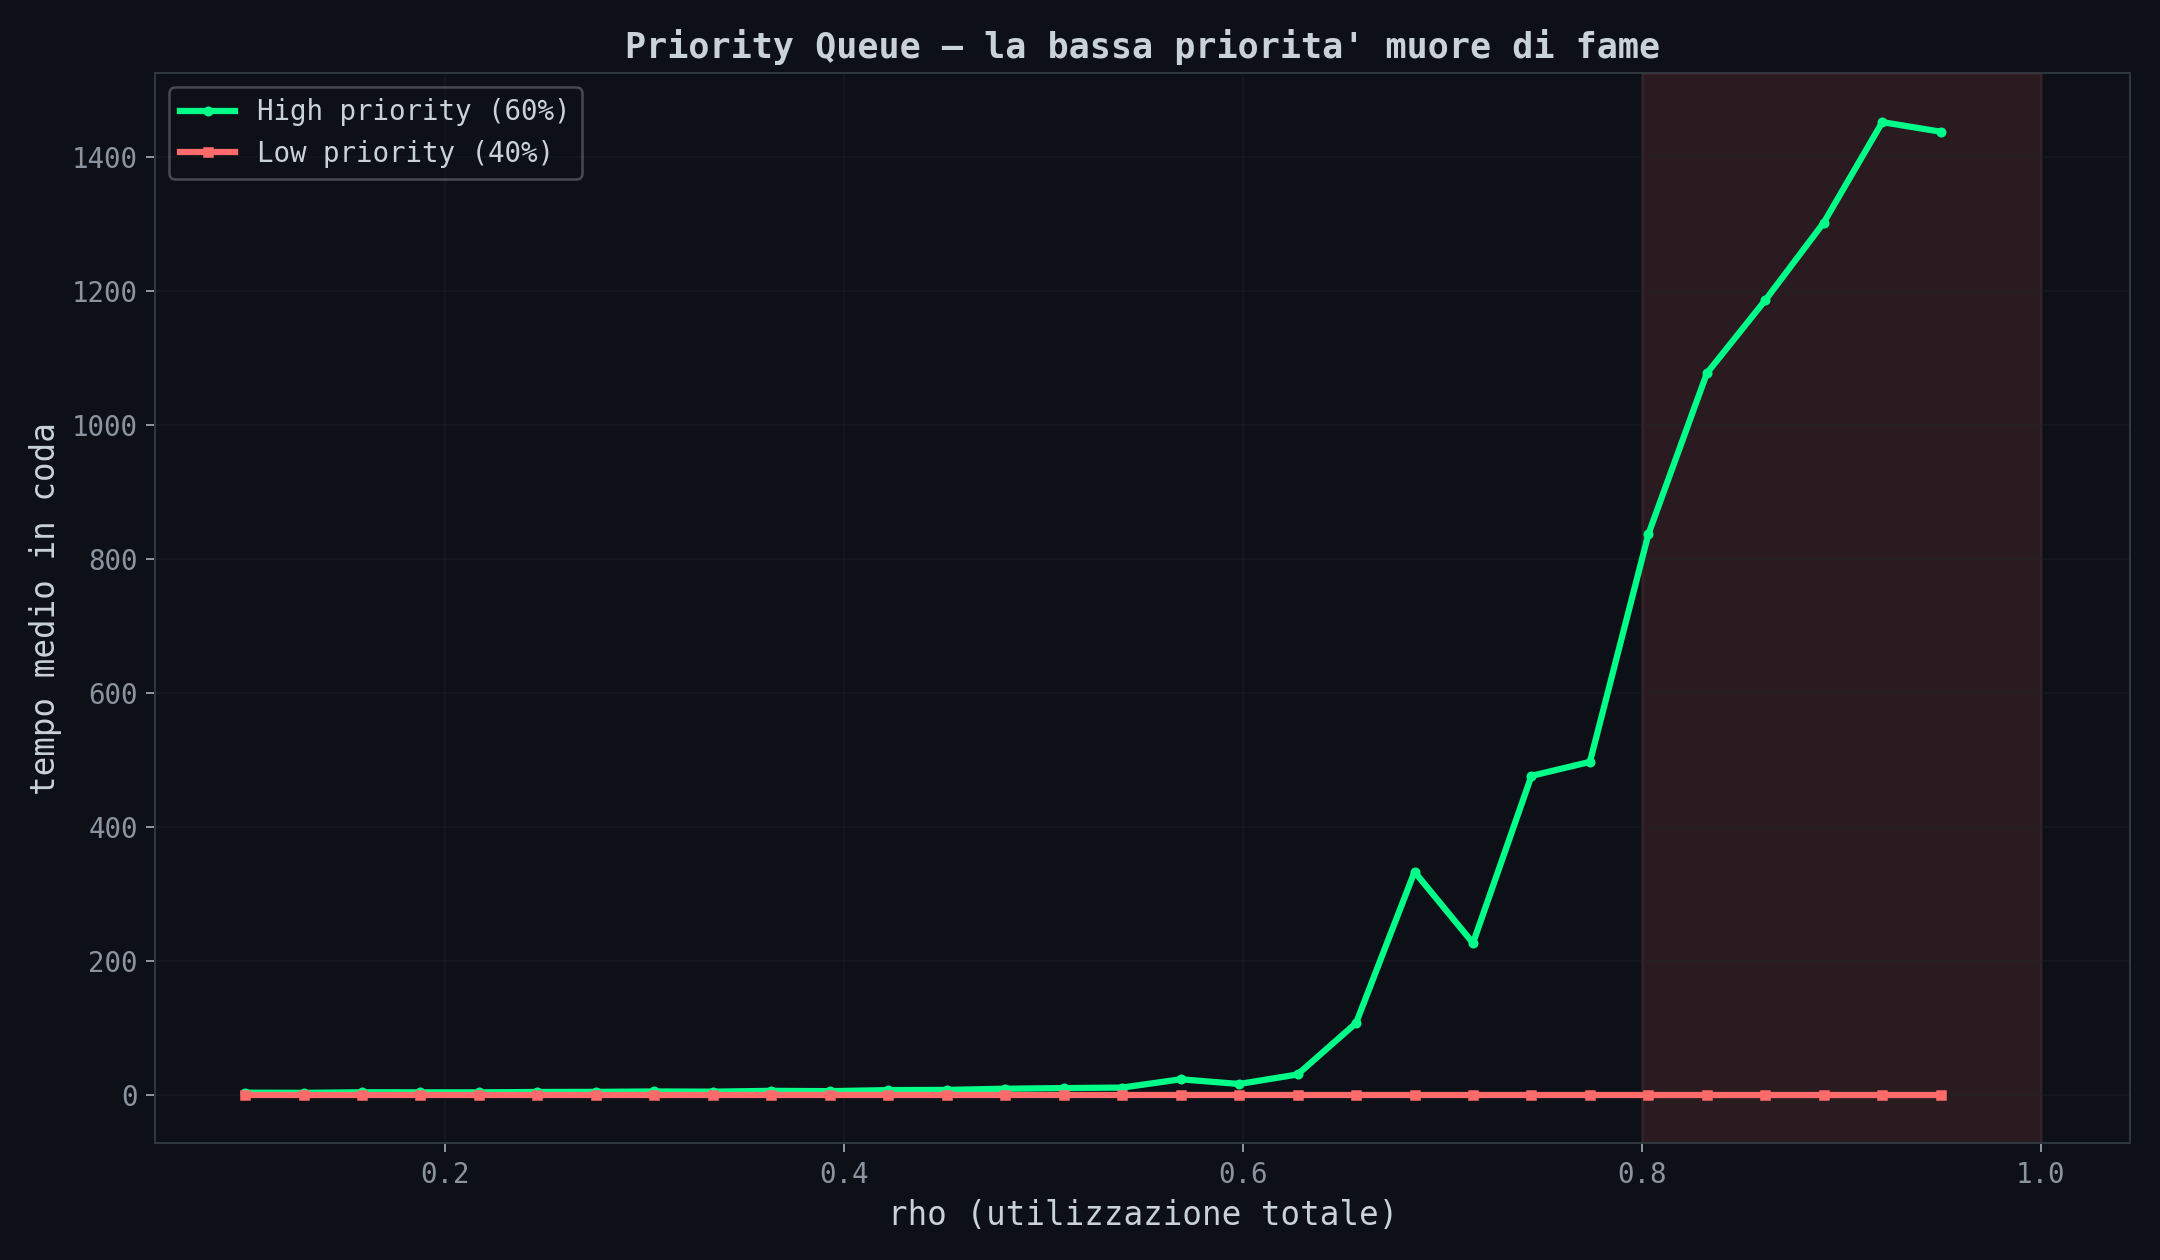
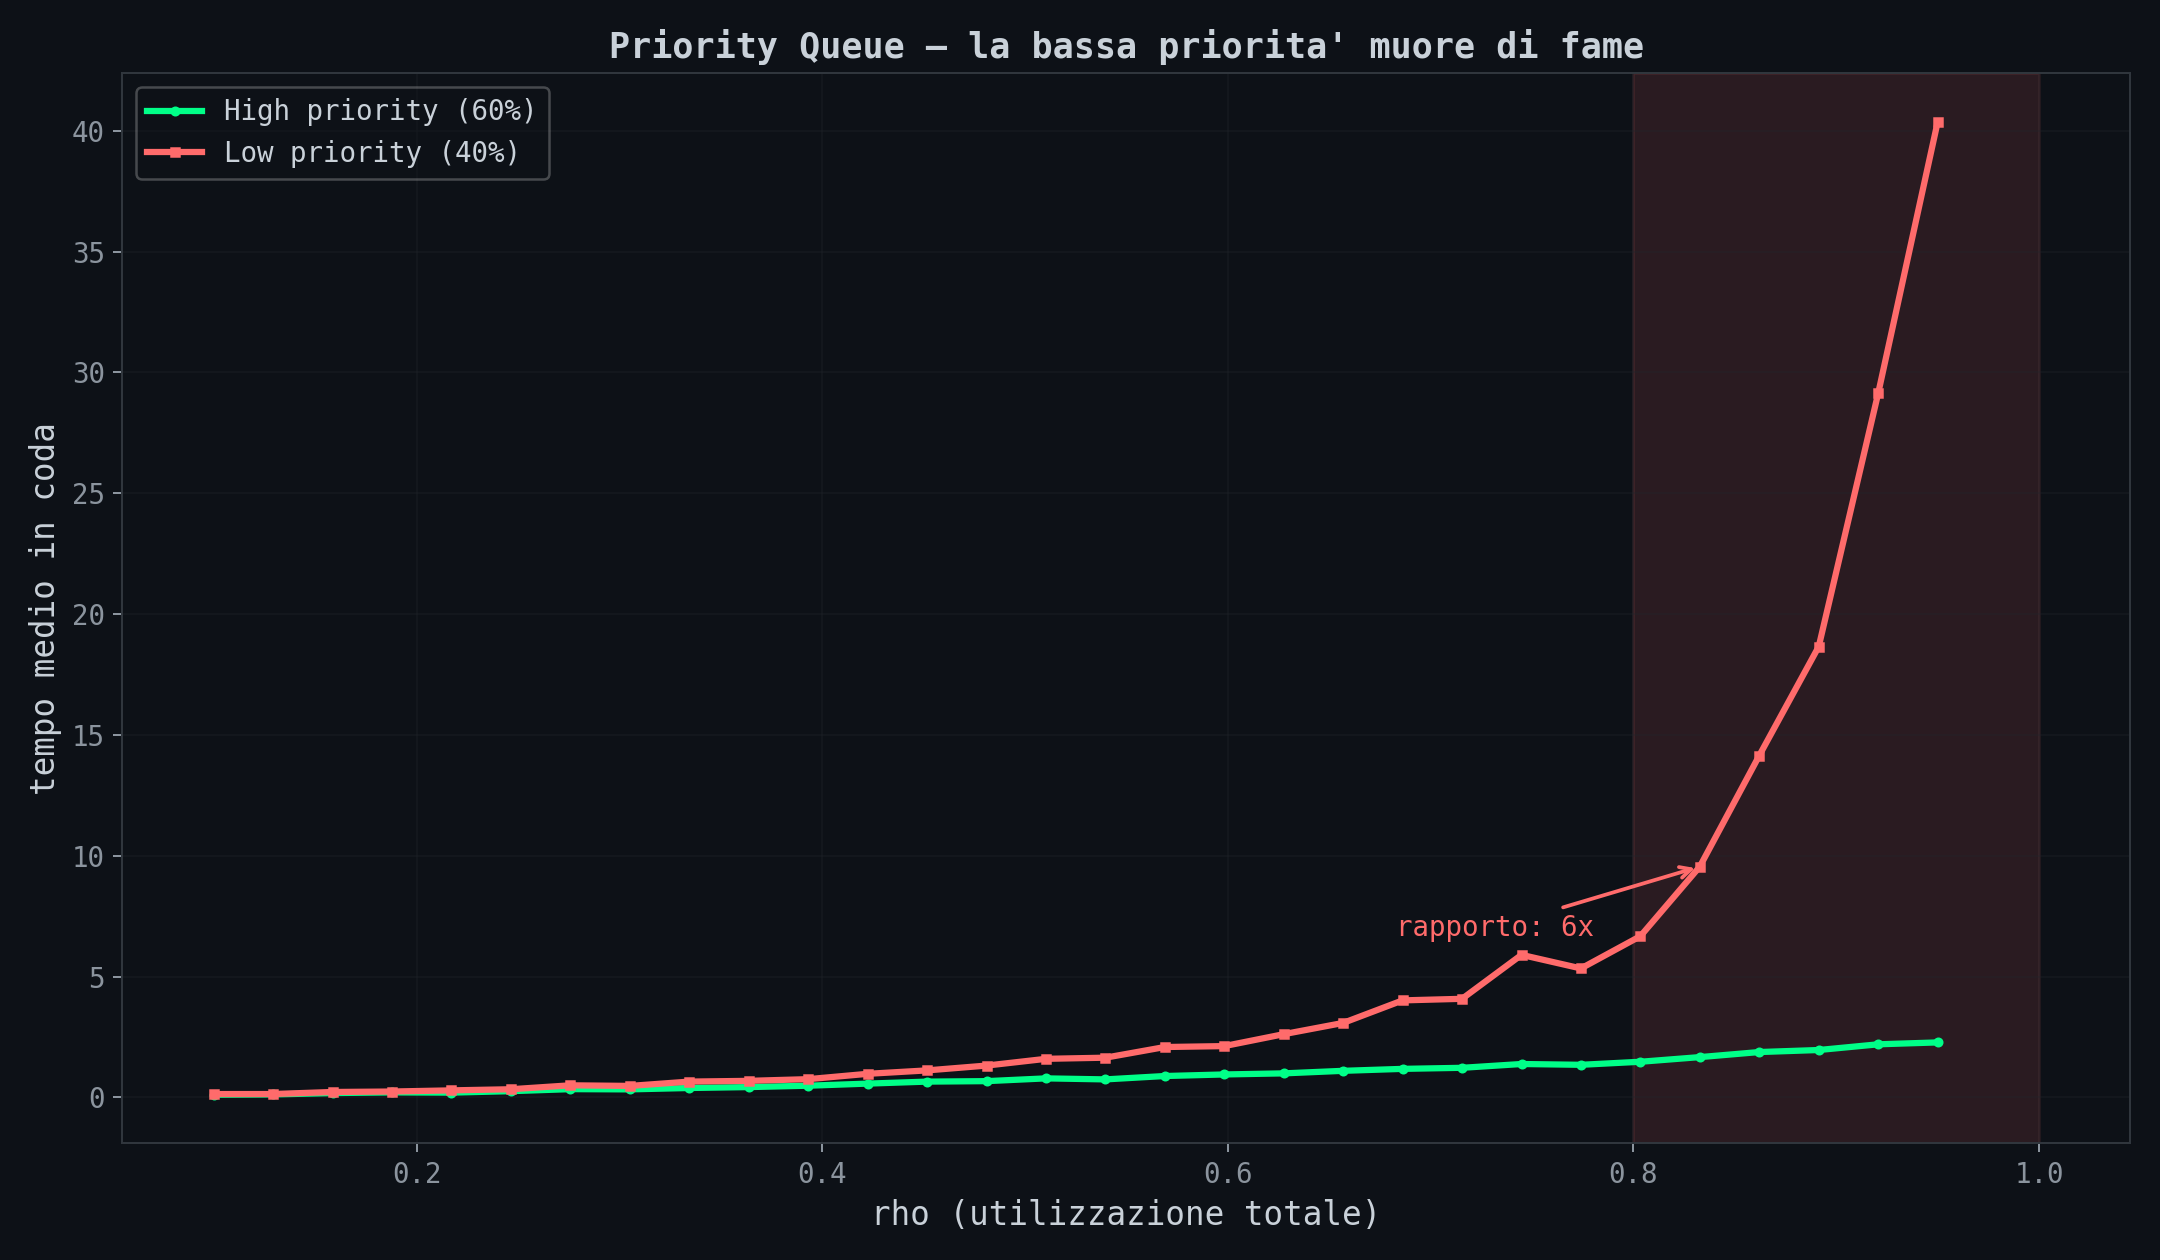
Correggi simulazione priority starvation: drain loop e orizzonte temporale
Bug nel grafico 08: la linea verde (high priority) esplodeva invece
della rossa (low priority). Due cause: il drain loop non svuotava le
code prima di servire nuovi arrivi, e N fisso per classe generava
orizzonti temporali diversi diluendo la media low priority.
Ora usa T_MAX fisso e drain corretto. Grafico rigenerato.

diff --git a/scripts/il-treno-arriva-con-la-matematica/05_simulation.py b/scripts/il-treno-arriva-con-la-matematica/05_simulation.py
@@ -143,7 +143,7 @@ def simulate_priority_starvation():
     """
     rho_values = np.linspace(0.1, 0.95, 30)
     HIGH_FRACTION = 0.6  # 60% del traffico e' high priority
-    N_CUSTOMERS = 10_000
+    T_MAX = 20_000  # orizzonte temporale fisso per entrambe le classi
     SERVICE_RATE = 1.0
 
     high_waits = []
@@ -154,9 +154,11 @@ def simulate_priority_starvation():
         high_rate = arrival_rate * HIGH_FRACTION
         low_rate = arrival_rate * (1 - HIGH_FRACTION)
 
-        # Genera arrivi
-        high_arrivals = np.cumsum(np.random.exponential(1 / high_rate, N_CUSTOMERS))
-        low_arrivals = np.cumsum(np.random.exponential(1 / low_rate, N_CUSTOMERS))
+        # Genera arrivi sullo stesso orizzonte temporale
+        high_arrivals = np.cumsum(np.random.exponential(1 / high_rate, int(T_MAX * high_rate * 1.5)))
+        high_arrivals = high_arrivals[high_arrivals < T_MAX]
+        low_arrivals = np.cumsum(np.random.exponential(1 / low_rate, int(T_MAX * low_rate * 1.5)))
+        low_arrivals = low_arrivals[low_arrivals < T_MAX]
 
         # Merge e simula
         events = (
@@ -173,24 +175,26 @@ def simulate_priority_starvation():
         l_waits = []
 
         for arrival_time, priority, service_time in events:
-            if arrival_time >= server_free_at:
-                # Server libero
-                if priority == 'H':
-                    # Serve subito
-                    wait = 0
-                    server_free_at = arrival_time + service_time
-                    h_waits.append(wait)
+            # Drena code in ordine di priorita' finche' il server e' libero
+            while server_free_at <= arrival_time:
+                if high_queue:
+                    at, st = high_queue.pop(0)
+                    h_waits.append(server_free_at - at)
+                    server_free_at += st
+                elif low_queue:
+                    at, st = low_queue.pop(0)
+                    l_waits.append(server_free_at - at)
+                    server_free_at += st
                 else:
-                    # Controlla se ci sono high in attesa
-                    if high_queue:
-                        ht, hs = high_queue.pop(0)
-                        h_waits.append(arrival_time - ht)
-                        server_free_at = arrival_time + hs
-                        low_queue.append((arrival_time, service_time))
-                    else:
-                        wait = 0
-                        server_free_at = arrival_time + service_time
-                        l_waits.append(wait)
+                    break
+
+            if arrival_time >= server_free_at:
+                # Server libero, servi subito
+                if priority == 'H':
+                    h_waits.append(0)
+                else:
+                    l_waits.append(0)
+                server_free_at = arrival_time + service_time
             else:
                 # Server occupato, accoda
                 if priority == 'H':
@@ -198,18 +202,16 @@ def simulate_priority_starvation():
                 else:
                     low_queue.append((arrival_time, service_time))
 
-            # Drena code quando il server si libera
-            while server_free_at <= arrival_time:
-                if high_queue:
-                    ht, hs = high_queue.pop(0)
-                    h_waits.append(max(0, server_free_at - ht))
-                    server_free_at += hs
-                elif low_queue:
-                    lt, ls = low_queue.pop(0)
-                    l_waits.append(max(0, server_free_at - lt))
-                    server_free_at += ls
-                else:
-                    break
+        # Drena clienti rimasti in coda dopo l'ultimo arrivo
+        while high_queue or low_queue:
+            if high_queue:
+                at, st = high_queue.pop(0)
+                h_waits.append(server_free_at - at)
+                server_free_at += st
+            else:
+                at, st = low_queue.pop(0)
+                l_waits.append(server_free_at - at)
+                server_free_at += st
 
         high_waits.append(np.mean(h_waits) if h_waits else 0)
         low_waits.append(np.mean(l_waits) if l_waits else 0)
